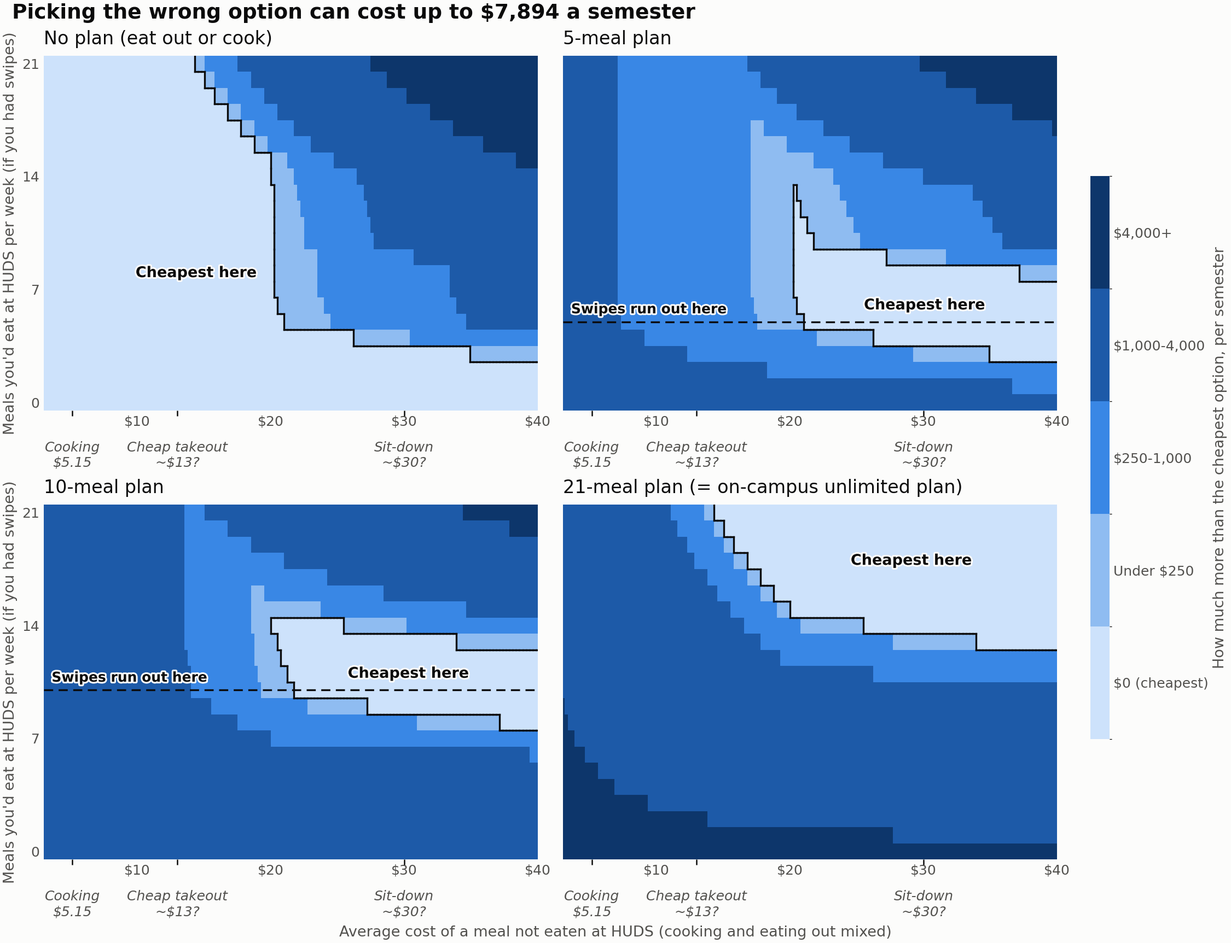
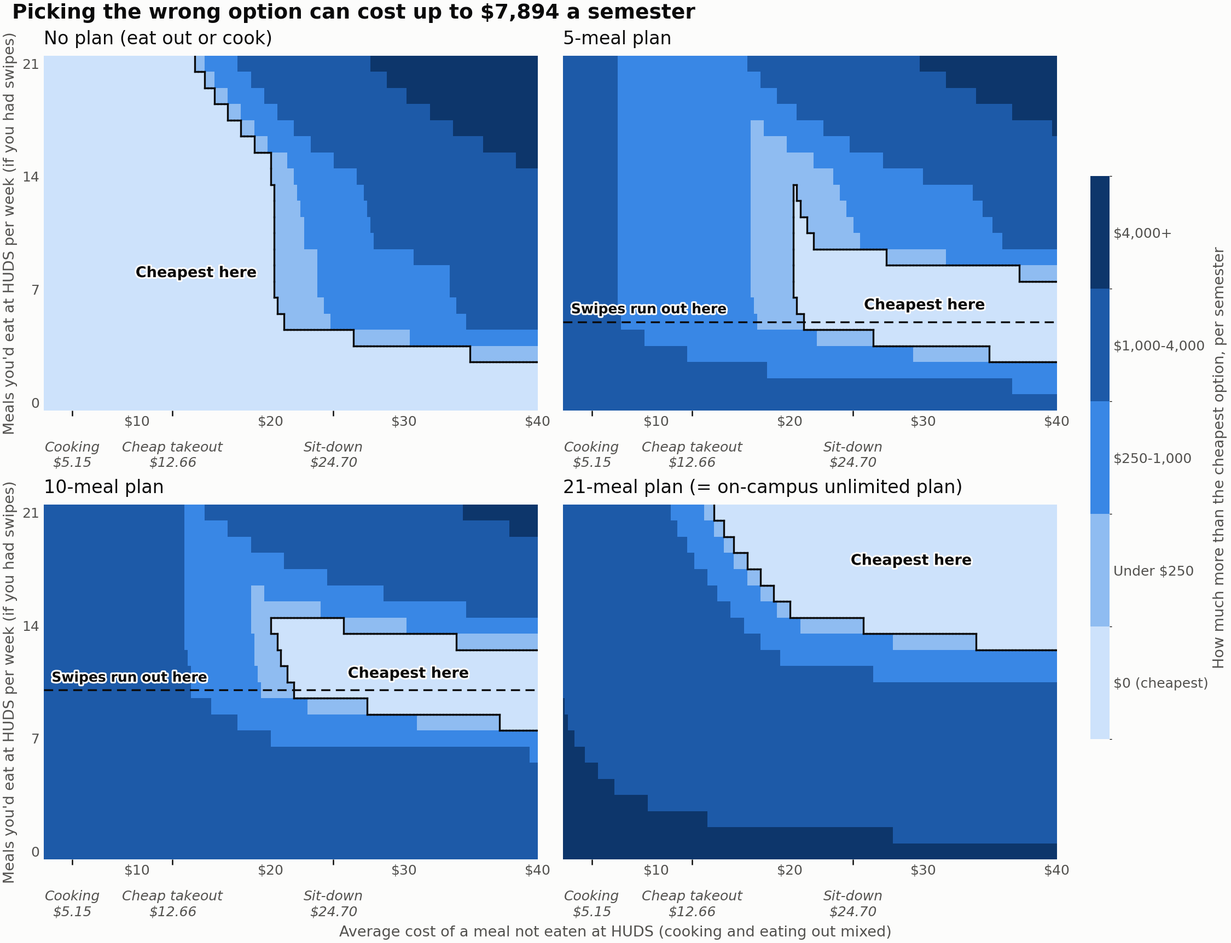
Real restaurant prices: counter $12.66 and sit-down $24.70 replace the placeholders
- src/restaurants.py: out-the-door prices (7% tax; 18% tip on the pre-tax price for
  sit-down), averages by service and meal type; accepts price_source 'news article'
- figures/restaurant_prices_summary.csv: n, mean, median, min, max per group
- All charts use the real markers; swipe chart shows sample sizes
- report.md: restaurant price section, updated findings and limitations

diff --git a/src/restaurants.py b/src/restaurants.py
@@ -1,0 +1,84 @@
+"""Restaurant meal prices near Harvard Square and Central Square, from the hand-collected sample in
+data/hand_collected/restaurant_meals.csv (README in that folder).
+
+Out-the-door price = menu price x (1 + 7% Cambridge meals tax + 18% tip for sit-down meals).
+The tip is figured on the pre-tax menu price, so a sit-down meal costs 1.25 x the menu price and
+a counter meal 1.07 x. Averages are plain means over the meals in each group.
+
+price_source "news article" (one row: Daily Provisions, from an Aug 2025 Boston Globe article)
+is accepted but is second-hand and older than the other rows; `exclude_sources` lets a caller
+drop it to check how much it matters.
+"""
+
+import csv
+import statistics
+from pathlib import Path
+from typing import Dict, Iterable, List, Optional
+
+DEFAULT_CSV = Path(__file__).resolve().parent.parent / "data" / "hand_collected" / "restaurant_meals.csv"
+MEALS_TAX = 0.07
+SIT_DOWN_TIP = 0.18
+SERVICES = ("counter", "sit-down")
+MEAL_TYPES = ("breakfast", "lunch", "dinner")
+PRICE_SOURCES = ("in person", "restaurant website", "menu photo", "news article")
+
+
+def out_the_door(menu_price: float, service: str) -> float:
+    if service not in SERVICES:
+        raise ValueError(f"service must be one of {SERVICES}, got {service!r}")
+    if menu_price < 0:
+        raise ValueError(f"negative menu price {menu_price}")
+    return menu_price * (1 + MEALS_TAX + (SIT_DOWN_TIP if service == "sit-down" else 0.0))
+
+
+def load_meals(csv_path: Path = DEFAULT_CSV, exclude_sources: Iterable[str] = ()) -> List[dict]:
+    """Every priced row, checked, with an added "price" (out the door). Blank prices are skipped."""
+    exclude = set(exclude_sources)
+    out = []
+    with open(csv_path, newline="", encoding="utf-8") as f:
+        for n, r in enumerate(csv.DictReader(f), start=2):
+            if not r["menu_price"].strip():
+                continue
+            for col, allowed in (("service", SERVICES), ("meal_type", MEAL_TYPES), ("price_source", PRICE_SOURCES)):
+                if r[col] not in allowed:
+                    raise ValueError(f"{csv_path.name} line {n}: {col} {r[col]!r} not in {allowed}")
+            if r["price_source"] in exclude:
+                continue
+            out.append({**r, "price": out_the_door(float(r["menu_price"]), r["service"])})
+    return out
+
+
+def _summary(prices: List[float]) -> Dict[str, float]:
+    return {"n": len(prices), "mean": statistics.mean(prices), "median": statistics.median(prices),
+            "min": min(prices), "max": max(prices)}
+
+
+def averages(meals: Optional[List[dict]] = None, by: str = "service") -> Dict[str, Dict[str, float]]:
+    """{group: {n, mean, median, min, max}} of out-the-door prices, grouped by a column
+    ("service" or "meal_type")."""
+    meals = load_meals() if meals is None else meals
+    groups: Dict[str, List[float]] = {}
+    for m in meals:
+        groups.setdefault(m[by], []).append(m["price"])
+    order = SERVICES if by == "service" else MEAL_TYPES
+    return {g: _summary(groups[g]) for g in order if g in groups}
+
+
+def average_price(service: str, meals: Optional[List[dict]] = None) -> float:
+    """Mean out-the-door price of the sample's counter or sit-down meals."""
+    return averages(meals, "service")[service]["mean"]
+
+
+def summary_rows(meals: Optional[List[dict]] = None) -> List[dict]:
+    """Out-the-door price summaries for the report: every meal, by service, by meal type, by meal
+    type and service, and counter/sit-down without the news-article row."""
+    meals = load_meals() if meals is None else meals
+    groups = [("all meals", meals)]
+    groups += [(s, [m for m in meals if m["service"] == s]) for s in SERVICES]
+    groups += [(t, [m for m in meals if m["meal_type"] == t]) for t in MEAL_TYPES]
+    groups += [(f"{t}, {s}", [m for m in meals if m["meal_type"] == t and m["service"] == s])
+               for t in MEAL_TYPES for s in SERVICES]
+    groups += [(f"{s}, without news-article rows", [m for m in meals if m["service"] == s
+                                                     and m["price_source"] != "news article"]) for s in SERVICES]
+    return [{"group": g, **{k: round(v, 2) for k, v in _summary([m["price"] for m in ms]).items()}}
+            for g, ms in groups if ms]

diff --git a/tests/test_restaurants.py b/tests/test_restaurants.py
@@ -1,0 +1,63 @@
+"""Hand-worked checks for the restaurant prices (src/restaurants.py)."""
+
+import csv
+
+import pytest
+
+from restaurants import average_price, averages, load_meals, out_the_door
+
+FIELDS = ["restaurant", "neighborhood", "address", "service", "meal_type", "item", "menu_price", "includes_drink",
+          "price_source", "date_checked", "collected_by", "notes"]
+
+
+def _csv(tmp_path, rows):
+    path = tmp_path / "meals.csv"
+    with path.open("w", newline="") as f:
+        w = csv.DictWriter(f, fieldnames=FIELDS)
+        w.writeheader()
+        for service, meal, price, source in rows:
+            w.writerow({"restaurant": "X", "service": service, "meal_type": meal, "menu_price": price,
+                        "price_source": source})
+    return path
+
+
+def test_out_the_door():
+    assert out_the_door(10, "counter") == pytest.approx(10.70)   # + 7% tax
+    assert out_the_door(20, "sit-down") == pytest.approx(25.00)  # + 7% tax + 18% tip on the menu price
+    with pytest.raises(ValueError):
+        out_the_door(10, "drive-through")
+
+
+def test_averages_by_group(tmp_path):
+    path = _csv(tmp_path, [("counter", "lunch", "10", "restaurant website"),
+                           ("counter", "dinner", "20", "in person"),
+                           ("sit-down", "dinner", "20", "news article"),
+                           ("sit-down", "lunch", "", "menu photo")])  # blank price: skipped
+    meals = load_meals(path)
+    assert len(meals) == 3
+    by_service = averages(meals, "service")
+    assert by_service["counter"]["mean"] == pytest.approx((10.70 + 21.40) / 2)
+    assert by_service["sit-down"]["n"] == 1 and by_service["sit-down"]["mean"] == pytest.approx(25.00)
+    assert averages(meals, "meal_type")["dinner"]["mean"] == pytest.approx((21.40 + 25.00) / 2)
+    # Dropping the news-article row leaves no sit-down meals.
+    assert "sit-down" not in averages(load_meals(path, exclude_sources=["news article"]), "service")
+
+
+def test_rejects_unknown_values(tmp_path):
+    with pytest.raises(ValueError):
+        load_meals(_csv(tmp_path, [("counter", "lunch", "10", "delivery app")]))
+    with pytest.raises(ValueError):
+        load_meals(_csv(tmp_path, [("counter", "snack", "10", "in person")]))
+
+
+def test_real_sample():
+    # 30 meals: 20 counter, 10 sit-down; 9 breakfasts, 10 lunches, 11 dinners.
+    meals = load_meals()
+    assert len(meals) == 30
+    s = averages(meals, "service")
+    assert (s["counter"]["n"], s["sit-down"]["n"]) == (20, 10)
+    assert {k: v["n"] for k, v in averages(meals, "meal_type").items()} == {"breakfast": 9, "lunch": 10, "dinner": 11}
+    # Counter menu prices: breakfast 60.49 + lunch 109.99 + dinner 66.09 = 236.57 -> x 1.07 / 20; sit-down sum to 197.64 -> x 1.25 / 10.
+    assert sum(float(m["menu_price"]) for m in meals if m["service"] == "counter") == pytest.approx(236.57)
+    assert average_price("counter") == pytest.approx(236.57 * 1.07 / 20)
+    assert average_price("sit-down") == pytest.approx(197.64 * 1.25 / 10)

diff --git a/scripts/make_figures.py b/scripts/make_figures.py
@@ -7,6 +7,7 @@ Usage:
 Current model (from 2026-10-08): no guest meals; meals not eaten at HUDS are eaten out or cooked
 at an outside price (see src/outside_food.py). Figure rules (text size, titles) are in src/style.py.
 Figures (figures/), in report order:
+  restaurant_prices_summary.csv          out-the-door restaurant prices by service and meal type (feeds the markers)
   spending_at_three_prices.png           lead chart: spending per semester vs HUDS meals, at 3 outside prices
   decision_map_undergrad_offcampus.png/.csv  cheapest option by outside price x HUDS meals eaten
   spending_by_option.png                 spending per semester under each option (5 bands, contours)
@@ -35,6 +36,7 @@ from charts import plot_grad_spending, plot_swipe_cost  # noqa: E402
 from model import load_prices  # noqa: E402
 from monte_carlo import draw_assumptions  # noqa: E402
 from on_campus import FULL_WEEK, plot_on_campus, resident_cost_per_meal  # noqa: E402
+from restaurants import summary_rows  # noqa: E402
 from outside_food import (  # noqa: E402
     plot_extra_cost,
     plot_lead,
@@ -57,6 +59,12 @@ def main():
         fig.savefig(path, dpi=150, facecolor=fig.get_facecolor())
         print(f"wrote {path.relative_to(ROOT)}")
 
+    with (OUT / "restaurant_prices_summary.csv").open("w", newline="") as f:
+        rows = summary_rows()
+        w = csv.DictWriter(f, fieldnames=list(rows[0]))
+        w.writeheader()
+        w.writerows(rows)
+    print("wrote figures/restaurant_prices_summary.csv")
     save(plot_lead(prices), OUT / "spending_at_three_prices.png")
     save(plot_main_map(prices), OUT / "decision_map_undergrad_offcampus.png")
     write_grid_csv(prices, OUT / "decision_map_undergrad_offcampus.csv")

diff --git a/src/charts.py b/src/charts.py
@@ -150,7 +150,11 @@ def plot_swipe_cost(prices: Prices):
     names = {5: "5-meal plan", 10: "10-meal plan", 21: "21-meal plan\n(= on-campus plan)"}
     bars = [(f"{names[n]}\n(one swipe)", v, PLAN_COLORS[plans[n]]) for n, v in swipes.items()]
     neutral = "#898781"
-    notes = {"Cooking": "(USDA moderate plan)"}
+    from restaurants import averages
+
+    n = {k: v["n"] for k, v in averages(by="service").items()}
+    notes = {"Cooking": "(USDA\nmoderate plan)", "Cheap takeout": f"(avg of {n['counter']}\ncounter meals)",
+             "Sit-down": f"(avg of {n['sit-down']}\nsit-down meals)"}
     bars += [(f"{name}\n{notes.get(name, '(placeholder)')}", price, neutral) for name, price in PRICE_MARKERS]
     value_text = {i + 3: marker_price_text(name, price) for i, (name, price) in enumerate(PRICE_MARKERS)}
 
@@ -185,7 +189,8 @@ def plot_swipe_cost(prices: Prices):
     ax.set_ylim(0, max(b[1] for b in bars) * 1.15)
     ax.text(1, -0.17, "Meal plans", transform=ax.get_xaxis_transform(), ha="center", va="top",
             fontsize=style.LABEL, color=MUTED)
-    ax.text(sum(xs[3:]) / len(xs[3:]), -0.17, "Meals not eaten at HUDS (hatched = placeholder price)",
+    group = "Meals not eaten at HUDS" + (" (hatched = placeholder price)" if PLACEHOLDER_MARKERS else "")
+    ax.text(sum(xs[3:]) / len(xs[3:]), -0.17, group,
             transform=ax.get_xaxis_transform(), ha="center", va="top", fontsize=style.LABEL, color=MUTED)
     cook = dict(PRICE_MARKERS)["Cooking"]
     style.title(fig, f"Cooking (${cook:.2f} a meal) is cheaper than any swipe; a plan only pays off against "

diff --git a/src/outside_food.py b/src/outside_food.py
@@ -14,6 +14,7 @@ from typing import Dict, List, Optional, Sequence, Tuple
 
 from charts import habits_for_meals
 from cooking import cooking_cost_per_meal
+from restaurants import average_price
 from decision_map import GROUPS, NR21_NAME, PLAN_COLORS, PLAN_LABELS, SHORT_LABELS, annual_costs, habits_to_patterns
 from model import MAX_PER_WEEK, Prices, load_term_weeks
 
@@ -23,11 +24,12 @@ PLANS = GROUPS[GROUP]  # no_plan, nr5, nr10, nr21
 WEEKENDS_AWAY = 2
 PRICE_RANGE = (3.0, 40.0)
 
-# Chart markers. Cooking is the USDA moderate-cost plan for a student cooking alone, adjusted to
-# Northeast prices (src/cooking.py). Cheap takeout and sit-down are PLACEHOLDERS -- not data --
-# until the hand-collected restaurant prices are in; replace them with the collected values.
-PRICE_MARKERS = [("Cooking", cooking_cost_per_meal()), ("Cheap takeout", 13.0), ("Sit-down", 30.0)]
-PLACEHOLDER_MARKERS = {"Cheap takeout", "Sit-down"}
+# Chart markers, all from data. Cooking: USDA moderate-cost plan for a student cooking alone,
+# adjusted to Northeast prices (src/cooking.py). Cheap takeout and sit-down: mean out-the-door
+# price of the hand-collected counter-service and sit-down meals (src/restaurants.py).
+PRICE_MARKERS = [("Cooking", cooking_cost_per_meal()), ("Cheap takeout", average_price("counter")),
+                 ("Sit-down", average_price("sit-down"))]
+PLACEHOLDER_MARKERS = set()  # names of markers that are still placeholders (shown as "~$13?")
 
 
 def hud_meals_per_year(missed: float, weekends_away: int = WEEKENDS_AWAY,

diff --git a/report.md b/report.md
@@ -10,7 +10,7 @@
 
 **The on-campus unlimited plan is the 21-meal plan in this model.** It costs $8,942 a year less $130 of BoardPlus = $8,812, exactly two terms of the 21-meal plan ($4,406 × 2), and with one swipe per meal period, 21 swipes a week cover every meal HUDS serves, the same as unlimited. `tests/test_on_campus.py` checks that the two cost the same for every eating pattern, outside price and first-week rule. (If BoardPlus goes unspent, the on-campus plan costs $130 a year more.) So the 21-meal plan is labelled "21-meal plan (= on-campus unlimited plan)" throughout.
 
-**Setup.** Everyone eats 21 meals a week; only where they eat changes. A meal not eaten at HUDS costs an *outside price*, a blend of cooking and eating out. It is a variable from $3 to $40 on the charts. Three reference prices are marked: **cooking, $5.15 a meal** (USDA moderate-cost food plan for a student cooking alone, adjusted to Northeast prices; see "Cooking cost" below), and **cheap takeout (~$13) and sit-down (~$30), which are still placeholders** (shown with "?") until about 30 Harvard Square/Central Square restaurant meals are collected. Off-campus undergraduate, 2 weekends away per term, 2026–27 HUDS prices and calendar. Meals eaten at HUDS are cut evenly across meal types. Spending per semester is half the academic year's spending.
+**Setup.** Everyone eats 21 meals a week; only where they eat changes. A meal not eaten at HUDS costs an *outside price*, a blend of cooking and eating out. It is a variable from $3 to $40 on the charts. Three reference prices are marked: **cooking, $5.15 a meal** (USDA moderate-cost food plan for a student cooking alone, adjusted to Northeast prices; see "Cooking cost" below), **cheap takeout, $12.66** and **sit-down, $24.70** (average out-the-door price of 20 counter-service and 10 sit-down meals around Harvard Square and Central Square; see "Restaurant prices" below). Off-campus undergraduate, 2 weekends away per term, 2026–27 HUDS prices and calendar. Meals eaten at HUDS are cut evenly across meal types. Spending per semester is half the academic year's spending.
 
 **First results:**
 
@@ -19,7 +19,8 @@
 - **The 21-meal plan (= on-campus plan)** wins for heavy HUDS users: from $14.33 a meal for someone who eats every meal there, rising to about $20 for someone who eats 15 a week.
 - **The 10-meal plan now wins somewhere**, unlike under guest rates: for students who eat about 9–14 HUDS meals a week, from $20.12 a meal at 14 HUDS meals a week ($20.79 at 12, $21.64 at 10).
 - **The 5-meal plan** wins for about 3–13 HUDS meals a week, from $20.22 a meal.
-- **At the marker prices:** at $5.15 (cooking) and ~$13 (cheap takeout, placeholder), no plan is cheapest for everyone. At ~$30 (sit-down, placeholder), the 21-meal plan (= on-campus plan) is cheapest for 14+ HUDS meals a week, the 10-meal plan for 9–13, the 5-meal plan for 4–8, and no plan below that.
+- **At the marker prices:** at $5.15 (cooking) and $12.66 (cheap takeout), no plan is cheapest for everyone: both are below the cheapest swipe ($13.79). At $24.70 (sit-down), the 21-meal plan (= on-campus plan) is cheapest for 15+ HUDS meals a week, the 10-meal plan for 10–14, the 5-meal plan for 5–9, and no plan for 0–4.
+- **Cheap takeout is close to the line.** The counter average ($12.66) is only $1.67 below the $14.33 at which the 21-meal plan starts to win, and the counter median is $13.54. Counter lunches average $14.71, above that line, so separate breakfast/lunch/dinner prices could change the answer for heavy HUDS users who eat lunch out.
 - **Picking the wrong option** costs up to $7,894 a semester (the 21-meal / on-campus plan for someone who eats nothing at HUDS when meals elsewhere cost $40), but little near the borders between options.
 - **Which meal you skip no longer matters** with a single outside price: every swipe saves the same amount. It will matter again if breakfast, lunch and dinner get separate outside prices from the restaurant data.
 
@@ -27,11 +28,11 @@
 
 All figures follow the same rules (`src/style.py`): text at least 12 pt, a plain-language takeaway as the title, and setup details in these captions rather than in the image. Fixed colours: no plan blue, 5-meal aqua, 10-meal yellow, 21-meal orange. Yellow and orange are hard to tell apart even with normal colour vision, so every chart also labels the options directly and draws borders between regions. On every off-campus chart the y-axis (or x-axis of the lead chart) is **meals you'd eat at HUDS per week if you had swipes**, and the price axis is the **average cost of a meal not eaten at HUDS, cooking and eating out mixed**. Off-campus undergraduate, 2 weekends away per term, 2026–27 HUDS prices.
 
-1. **`figures/spending_at_three_prices.png`** (lead chart) — Food spending per semester against meals you'd eat at HUDS per week, one line per option, at three outside prices: mostly cooking ($5.15 a meal), cheap takeout (~$13, placeholder) and sit-down places (~$30, placeholder). Same y-axis on all three panels. No plan can't eat at HUDS, and a plan can't cover more meals than its swipes; extra meals are eaten out or cooked at the panel's price, which is why those lines go flat.
+1. **`figures/spending_at_three_prices.png`** (lead chart) — Food spending per semester against meals you'd eat at HUDS per week, one line per option, at three outside prices: mostly cooking ($5.15 a meal), cheap takeout ($12.66, the average of 20 counter-service meals) and sit-down places ($24.70, the average of 10 sit-down meals, with 18% tip). Same y-axis on all three panels. No plan can't eat at HUDS, and a plan can't cover more meals than its swipes; extra meals are eaten out or cooked at the panel's price, which is why those lines go flat.
 2. **`figures/decision_map_undergrad_offcampus.png`** (+ `.csv`) — The decision map: the cheapest option by the average cost of a meal not eaten at HUDS (x-axis) and meals you'd eat at HUDS per week (y-axis). Find your price and your HUDS meals and read off the colour. The labels under the x-axis show where cooking, cheap takeout and sit-down meals fall.
 3. **`figures/spending_by_option.png`** — Total food spending per semester under each option (one panel each) in $1,000 bands on the same colour scale across panels, so nearby differences show up, with labelled contour lines every $2,000. With no plan, spending depends only on the outside price; with a plan, it also falls as you eat more HUDS meals, until the swipes run out (dashed line at 5 and 10 meals a week on the 5- and 10-meal panels; in weeks with a weekend away it comes slightly later, because fewer HUDS meals are eaten).
 4. **`figures/extra_cost_by_option.png`** — How much more each option costs per semester than the cheapest option for that student: $0 (the cheapest; outlined and labelled "Cheapest here"), under $250, $250–1,000, $1,000–4,000, $4,000+. Pale means the best option for that student, not that it's cheap; for total spending, see the spending chart. No plan gets darker going up not because it costs more, but because the plans get cheaper for students who'd eat more at HUDS. Dashed lines on the 5- and 10-meal panels mark where the swipes run out.
-5. **`figures/swipe_cost.png`** — What one swipe costs on each plan if every swipe is used ($20.22 on the 5-meal plan, $20.11 on the 10-meal, $13.79 on the 21-meal / on-campus plan): the yearly plan price divided by the swipes available over 30.4 weeks. Dashed lines carry each swipe cost across the three outside prices: cooking ($5.15) and the placeholder cheap takeout (~$13) and sit-down (~$30) prices (hatched). A plan pays off only if a meal eaten out or cooked would cost more than its swipe.
+5. **`figures/swipe_cost.png`** — What one swipe costs on each plan if every swipe is used ($20.22 on the 5-meal plan, $20.11 on the 10-meal, $13.79 on the 21-meal / on-campus plan): the yearly plan price divided by the swipes available over 30.4 weeks. Dashed lines carry each swipe cost across the three outside prices: cooking ($5.15), cheap takeout ($12.66) and sit-down ($24.70). A plan pays off only if a meal eaten out or cooked would cost more than its swipe.
 
 The on-campus chart is in "On-campus students" below; the graduate-student chart is in "Graduate students" near the end.
 
@@ -41,8 +42,8 @@ The on-campus chart is in "On-campus students" below; the graduate-student chart
 
 - **The required plan is the best option only for heavy HUDS users when meals elsewhere are expensive**: from $14.33 a meal for someone who eats all 21 meals at HUDS, and only for 13+ HUDS meals a week anywhere up to $40.
 - **At the cooking price ($5.15)** it costs $2,823 a semester more than cooking everything for someone who would eat all 21 meals at HUDS, and $3,350 more at 14 HUDS meals a week. (Most on-campus students can't cook every meal; see Limitations.)
-- **At cheap takeout (~$13, placeholder)** it costs $408 a semester more at 21 HUDS meals a week and $1,741 more at 14.
-- **At sit-down prices (~$30, placeholder)** it is the best option for 14+ HUDS meals a week; at 10 a week the 10-meal plan would be $1,346 a semester cheaper.
+- **At cheap takeout ($12.66)** it costs $514 a semester more than no plan at 21 HUDS meals a week and $1,811 more at 14.
+- **At sit-down prices ($24.70)** it is the best option for 15+ HUDS meals a week; at 14 a week the 10-meal plan would be $40 a semester cheaper, and at 10 a week $1,346 cheaper.
 
 The supporting chart `figures/appendix/on_campus_cost_per_meal.png` shows the plan's cost per meal eaten (below).
 
@@ -94,12 +95,30 @@ The cooking price is computed in `src/cooking.py` from `data/cooking_cost.csv` (
 | Cooking alone (default) | $4.01 | $4.16 | **$5.15** | $6.42 |
 | Roommates sharing (4-person) | $3.34 | $3.46 | $4.29 | $5.35 |
 
+### Restaurant prices
+`data/hand_collected/restaurant_meals.csv`: 30 meals around Harvard Square and Central Square (9 breakfasts, 10 lunches, 11 dinners; 20 counter-service, 10 sit-down), collected 2026-10-09. Rows marked "CC" were checked by the user; rows marked "Claude (web)" were looked up online. `src/restaurants.py` turns each menu price into an out-the-door price: **+7% Cambridge meals tax**, plus an **18% tip for sit-down meals**, figured on the pre-tax menu price (sit-down = 1.25 × menu price, counter = 1.07 ×). Averages are plain means; `figures/restaurant_prices_summary.csv` has every group with n, mean, median, min and max.
+
+| Out-the-door price | Meals | Mean | Median |
+|---|---|---|---|
+| **Counter service (cheap takeout marker)** | 20 | **$12.66** | $13.54 |
+| **Sit-down (sit-down marker)** | 10 | **$24.70** | $22.59 |
+| Breakfast (counter and sit-down) | 9 | $14.09 | $11.77 |
+| Lunch | 10 | $17.27 | $15.38 |
+| Dinner | 11 | $18.25 | $14.55 |
+| Breakfast / lunch / dinner, counter | 6 / 8 / 6 | $10.79 / $14.71 / $11.79 | |
+| Breakfast / lunch / dinner, sit-down | 3 / 2 / 5 | $20.68 / $27.50 / $26.00 | |
+
+The meal-type averages mix counter and sit-down meals in the sample's proportions, so they depend on how many of each were collected; the charts use the counter and sit-down averages only.
+
+- **Daily Provisions** (`price_source` "news article", August 2025 Boston Globe) is kept: dropping it moves the counter average from $12.66 to $12.70 and doesn't change the sit-down average.
+- **Joe's Pizza** is the user's in-person estimate for two cheese slices (about $10; slices aren't listed online).
+
 ## Limitations
 
 - **Cooking counts groceries only**: not the cook's time, kitchen equipment, or food that's bought and wasted. The real cost of cooking is higher than $5.15 a meal, by an amount this project doesn't measure.
 - **The regional adjustment is for the Northeast, from 9 foods**, not for Cambridge or the full USDA basket. The optional local grocery basket (`data/hand_collected/grocery_basket.csv`) would check it.
 - **The USDA low-cost, moderate and liberal plans** are based on 2001–02 food choices updated with price indexes (USDA notes they are being re-evaluated); they describe a nutritious diet, not necessarily what students buy.
-- **Cheap takeout and sit-down prices are placeholders** until the restaurant sample is collected.
+- **The restaurant sample is small** (30 meals; only 2 sit-down lunches and 3 sit-down breakfasts), and the averages are means of what a student might typically order, not a random sample of meals. 22 of the 30 prices were looked up online by Claude ("Claude (web)") and 8 checked by the user ("CC"). Tatte's two prices come from its online ordering page and may be about 10–15% above the counter price, which would push the counter average up slightly. Several "Claude (web)" rows note that the type of service (counter or table) was likely but not confirmed. One price (Daily Provisions) is from an August 2025 news article.
 - **Most on-campus students have limited kitchen access**, so the cooking price is less realistic for them: for on-campus students the takeout and sit-down prices are the more relevant comparisons.
 
 ## Graduate students

diff --git a/CLAUDE.md b/CLAUDE.md
@@ -2,7 +2,7 @@
 
 This file is the source of truth for the project. Read it fully before making changes. Ask the user before deviating from any decision below. This REPLACES an earlier brief about a restaurant recommender app; that project is cancelled.
 
-**Start here in a new session:** read "Current status" and "Next steps" at the end. Last updated 2026-10-09 (on-campus back in scope; resident plan = 21-meal plan).
+**Start here in a new session:** read "Current status" and "Next steps" at the end. Last updated 2026-10-09 (real restaurant prices in the model).
 
 ## Assignment context
 
@@ -48,7 +48,7 @@ Pages to fetch:
 
 ## Method
 
-1. **Data collection:** fetch and parse the HUDS pages and the official board fee; record values with source URLs and fetch dates in `data/`. **Done.** Cooking cost: done (2026-10-09). Cambridge restaurant prices: waiting on the user's sample.
+1. **Data collection:** fetch and parse the HUDS pages and the official board fee; record values with source URLs and fetch dates in `data/`. **Done.** Cooking cost: done (2026-10-09). Restaurant prices: done (2026-10-09, `src/restaurants.py`).
 2. **Deterministic model:** cost per meal eaten for each plan as a function of meals eaten per week by meal type, weeks on campus, and forfeiture rules. Pure, unit-tested functions. **Done**, including the 2026-10-08 change to outside prices.
 3. **Monte Carlo simulation (secondary):** show how sensitive the decision map is to uncertain assumptions — not the headline result. It must vary **weeks per term from about 14.5 to 16** (fall and spring drawn separately), full vs partial first-week swipes, and on the current model the outside price and cooking share. Yes/no assumptions are 50/50 coin flips. **The existing Monte Carlo is on the superseded guest-rate model and must be rebuilt.**
 4. **Decision map (main output):** see "Decision map" below. Current version: cheapest option by outside price × meals eaten at HUDS per week, led by a simpler three-price line chart.
@@ -65,10 +65,10 @@ The main output is a **decision map**: a plot where a student locates themselves
 3. **Spending by option** (`figures/spending_by_option.png`, `plot_spending`; was Draft B): 2×2 grid, one panel per option, colour = total food spending per semester in **$1,000 bands** (user's choice 2026-10-09, so nearby differences show), same scale across panels, labelled contour lines every $2,000 (labels kept off the swipe lines), colourbar on the right.
 4. **Extra cost by option** (`figures/extra_cost_by_option.png`, `plot_extra_cost`; was Draft C): 2×2 grid, colour = how much more than the cheapest option per semester in 5 bands ($0 (cheapest), under $250, $250–1,000, $1,000–4,000, $4,000+); each panel outlines and labels its "Cheapest here" region.
 - On both 2×2 charts, the 5- and 10-meal panels have a dashed line at 5 / 10 meals labelled **"Swipes run out here"**.
-5. **Swipe cost** (`figures/swipe_cost.png`, `charts.plot_swipe_cost`): one swipe on each plan next to the three outside prices (Cooking, Cheap takeout, Sit-down; placeholders hatched). The guest-price bars were removed (2026-10-09).
+5. **Swipe cost** (`figures/swipe_cost.png`, `charts.plot_swipe_cost`): one swipe on each plan next to the three outside prices (Cooking, Cheap takeout, Sit-down, with the sample sizes). The guest-price bars were removed (2026-10-09).
 6. **On-campus** (`figures/on_campus_extra_cost.png`, `plot_on_campus_extra`): the 21-meal panel of the extra-cost chart alone (see the On-campus bullet below).
 - Draft A was dropped and `figures/drafts/` removed (in git history).
-- **Markers:** "Cooking", "Cheap takeout", "Sit-down" are small labels on the x-axis (no dashed lines across the plot); `PRICE_MARKERS` in `src/outside_food.py`. **Cooking = $5.15, real** (from `cooking.cooking_cost_per_meal()`). **Cheap takeout ~$13 and sit-down ~$30 are still placeholders** (shown with "?", `PLACEHOLDER_MARKERS`) until the restaurant sample is in.
+- **Markers:** "Cooking", "Cheap takeout", "Sit-down" are small labels on the x-axis (no dashed lines across the plot); `PRICE_MARKERS` in `src/outside_food.py`. **Cooking = $5.15, real** (from `cooking.cooking_cost_per_meal()`). **Cheap takeout = $12.66 and sit-down = $24.70, real** (mean out-the-door price of the 20 counter / 10 sit-down sample meals, `restaurants.average_price`). `PLACEHOLDER_MARKERS` is now empty; any name put back in it is shown as "~$13?" and hatched.
 - **Grad students:** `figures/grad_cafe_spending.png` — cheapest option (no plan / GradPlus Regular / Deluxe) by yearly café spending, switch points $933 and $1,604 (independent of the estimated café price).
 - **On-campus undergrads** (`figures/on_campus_extra_cost.png`, `outside_food.plot_on_campus_extra`): the 21-meal panel of the extra-cost chart on its own, same axes and colour steps; **compares against the cheapest of all four options** (including the 5-/10-meal plans on-campus students can't buy, read as "if you could choose") and keeps the computed takeaway title "The required on-campus plan only pays off if you eat most meals at HUDS and meals elsewhere would cost over $14" (both confirmed by the user 2026-10-09); "On-campus students" section in `report.md`. Supporting chart `figures/appendix/on_campus_cost_per_meal.png`: cost per meal eaten vs meals per week, guest prices as reference lines, BoardPlus spent and unspent, Monte Carlo range shaded.
 - **No all-plans map** mixing student groups (GradPlus "wins" most of it only because café meals are cheaper and undergrads can't buy it); explained in a note in `report.md`.
@@ -100,6 +100,7 @@ Python 3.9+ (the machine has 3.9.6). Dependencies in a project virtualenv `.venv
 - dining.harvard.edu blocks scripted requests (HTTP 403). HUDS pages are saved from a browser into `data/raw/manual/` and parsed by `scripts/fetch_prices.py`, which verifies each page's canonical URL.
 - Resident board fee for 2026–27 is $8,942 (official; see Data section).
 - Restaurant prices come from a hand-collected sample of ~30 meals, not the Google Places API. The user enters menu prices **before** tax and tip; code adds the **7% meals tax**, plus an **18% tip for sit-down** meals and **0% for counter service** (the `service` column).
+- **Restaurant sample (done 2026-10-09):** 30 meals in `data/hand_collected/restaurant_meals.csv` (22 "Claude (web)" rows looked up online, 8 "CC" rows checked by the user). Out-the-door = menu × (1 + 7% tax + 18% tip on the **pre-tax** menu price for sit-down) — sit-down 1.25×, counter 1.07×. Markers use plain **means**: counter $12.66 (median $13.54), sit-down $24.70 (median $22.59). Breakfast/lunch/dinner averages ($14.09 / $17.27 / $18.25; by service too) are in `figures/restaurant_prices_summary.csv` and `report.md` but **not used in the charts** yet. `price_source` "news article" (Daily Provisions, Aug 2025) is accepted and kept (dropping it: counter $12.70); Joe's Pizza is the user's in-person estimate for 2 slices.
 - **Cooking cost per meal (decided 2026-10-09):** USDA food plan weekly cost, average of the female and male 19–50 groups (Thrifty: 20–50), ÷ 21 meals. **Moderate-cost plan = the cooking marker ($5.15)**, range Thrifty–Liberal **$4.01–$6.42**. **Default: a student cooking alone (+20%, USDA's 1-person adjustment)**; roommates sharing (4-person, no adjustment, $4.29 moderate) is the lower case in `report.md`. **Regional adjustment: BLS Northeast vs U.S. average prices, +6.3%** (geometric mean over the 9 items BLS prices in both areas). BLS has no Boston food price levels (the Boston CPI measures change only), so "Boston" became "Northeast". Groceries only — no time, equipment or waste (in Limitations). Limitations also notes most on-campus students have limited kitchen access, so the cooking price is less realistic for them.
 - Optional local grocery basket by the user.
 
@@ -142,18 +143,18 @@ Python 3.9+ (the machine has 3.9.6). Dependencies in a project virtualenv `.venv
 
 - **Cooking cost done:** `scripts/fetch_cooking_cost.py` → `data/cooking_cost.csv` (USDA Aug 2026 PDFs parsed with the standard library; BLS API v1); `--offline` re-parses the saved copies.
 - **Step 1 done:** `scripts/fetch_prices.py` → `data/huds_prices.csv` (every value with source URL, fetch date and the quoted page text).
-- **Model done and tested:** `src/model.py` (plans, outside prices, term calendar), `src/decision_map.py` (habit patterns, yearly costs, `outside_price` and `no_plan`), `src/outside_food.py` (current model: full yearly food bill, cheapest option, all off-campus figures), `src/cooking.py` (cooking cost per meal), `src/style.py` (figure rules), `src/on_campus.py`, `src/charts.py`, `src/monte_carlo.py` (guest-rate legacy). **127 tests pass** (`.venv/bin/python -m pytest`).
+- **Model done and tested:** `src/model.py` (plans, outside prices, term calendar), `src/decision_map.py` (habit patterns, yearly costs, `outside_price` and `no_plan`), `src/outside_food.py` (current model: full yearly food bill, cheapest option, all off-campus figures), `src/cooking.py` (cooking cost per meal), `src/style.py` (figure rules), `src/on_campus.py`, `src/charts.py`, `src/monte_carlo.py` (guest-rate legacy). **131 tests pass** (`.venv/bin/python -m pytest`).
 - **Current figures** (`scripts/make_figures.py`): lead chart, decision map + CSV, spending by option, extra cost by option, swipe cost, on-campus extra cost, grad café spending; appendix: on-campus cost per meal + CSV. Captions in `report.md`.
-- **First results on the current model** (outside price still a variable; in `report.md`): no plan is cheapest for everyone below $14.33 a meal and in 54% of the chart; the 21-meal plan wins for heavy HUDS users from $14.33 (every meal) to ~$20 (15 meals/week); the **10-meal plan now wins** for ~9–14 HUDS meals/week from $20.12; the 5-meal plan for ~3–13 from $20.22. Picking the wrong option costs up to $7,894 a semester. At the real cooking price ($5.15) no plan is cheapest for everyone.
+- **First results on the current model** (in `report.md`; markers $5.15 / $12.66 / $24.70 — at both cooking and takeout prices no plan is cheapest for everyone; at sit-down, 21-meal 15+ HUDS meals/week, 10-meal 10–14, 5-meal 5–9, no plan 0–4): no plan is cheapest for everyone below $14.33 a meal and in 54% of the chart; the 21-meal plan wins for heavy HUDS users from $14.33 (every meal) to ~$20 (15 meals/week); the **10-meal plan now wins** for ~9–14 HUDS meals/week from $20.12; the 5-meal plan for ~3–13 from $20.22. Picking the wrong option costs up to $7,894 a semester. At the real cooking price ($5.15) no plan is cheapest for everyone.
 - **`report.md`:** scope note, results, numbered figure captions, assumptions (incl. cooking cost), Limitations, Graduate students, on-campus appendix, plus the archived guest-rate sections (marked superseded). Not final.
-- **Templates ready but empty:** `data/hand_collected/restaurant_meals.csv`, `grocery_basket.csv`.
-- **Not done yet:** restaurant prices, Monte Carlo on the new model, validation, README, final report.
+- **Restaurant sample done** (30 meals); `grocery_basket.csv` (optional) still empty.
+- **Not done yet:** Monte Carlo on the new model, validation, README, final report.
 
 ## Next steps (in order)
 
 1. ~~Clean up Drafts B and C~~ — done 2026-10-08 (see "Decision map").
 2. ~~Fetch the cooking cost per meal~~ — done 2026-10-09 ($5.15 marker in the model).
-3. **User collects ~30 restaurant meals** in `data/hand_collected/restaurant_meals.csv`; then compute outside prices (tax + tip rule above), replace the placeholder markers with real values, and consider separate breakfast/lunch/dinner outside prices.
+3. ~~Restaurant meals~~ — done 2026-10-09 (real markers in every chart). Still to decide: **separate breakfast/lunch/dinner outside prices** (counter lunches average $14.71, above the $14.33 at which the 21-meal plan starts to win, so it could matter).
 4. **Rebuild the Monte Carlo on the current model** (outside price, cooking share, weeks per term 14.5–16, first-week swipes) and its stability/assumption figures.
 5. **Update the remaining figures** for the current model as needed (e.g. example student; meal-type chart if per-meal-type prices are used).
 6. Validation (swipe history or survey), README with one-command reproduction, final `report.md`.

diff --git a/data/hand_collected/README.md b/data/hand_collected/README.md
@@ -16,9 +16,9 @@ Aim for a spread: roughly 10 breakfast, 10 lunch and 10 dinner items, from cheap
 | `item` | The dish, e.g. "chicken burrito bowl" |
 | `menu_price` | Menu price in dollars, **before** tax and tip, e.g. `13.95` (tax and tip are added in code, so the same rule applies to every row) |
 | `includes_drink` | `yes` or `no` |
-| `price_source` | `in person`, `restaurant website`, or `menu photo` (avoid delivery apps: their prices are marked up) |
+| `price_source` | `in person`, `restaurant website`, `menu photo`, or `news article` (avoid delivery apps: their prices are marked up). `news article` is accepted but second-hand and may be out of date; `figures/restaurant_prices_summary.csv` shows the averages without those rows too |
 | `date_checked` | `YYYY-MM-DD` |
-| `collected_by` | Your initials |
+| `collected_by` | Your initials, or `Claude (web)` for prices Claude looked up online |
 | `notes` | Anything odd: lunch special, student discount, portion size |
 
 Example row (don't copy into the file):
